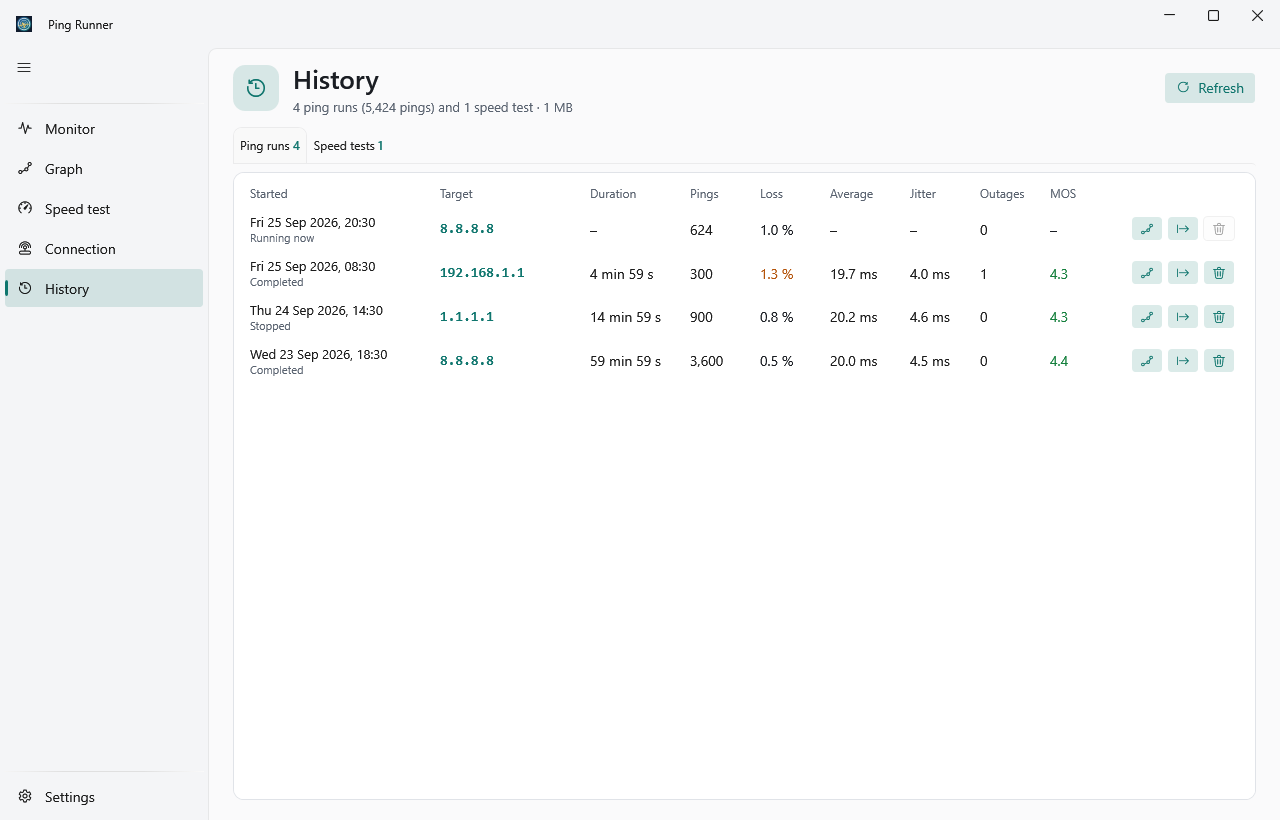
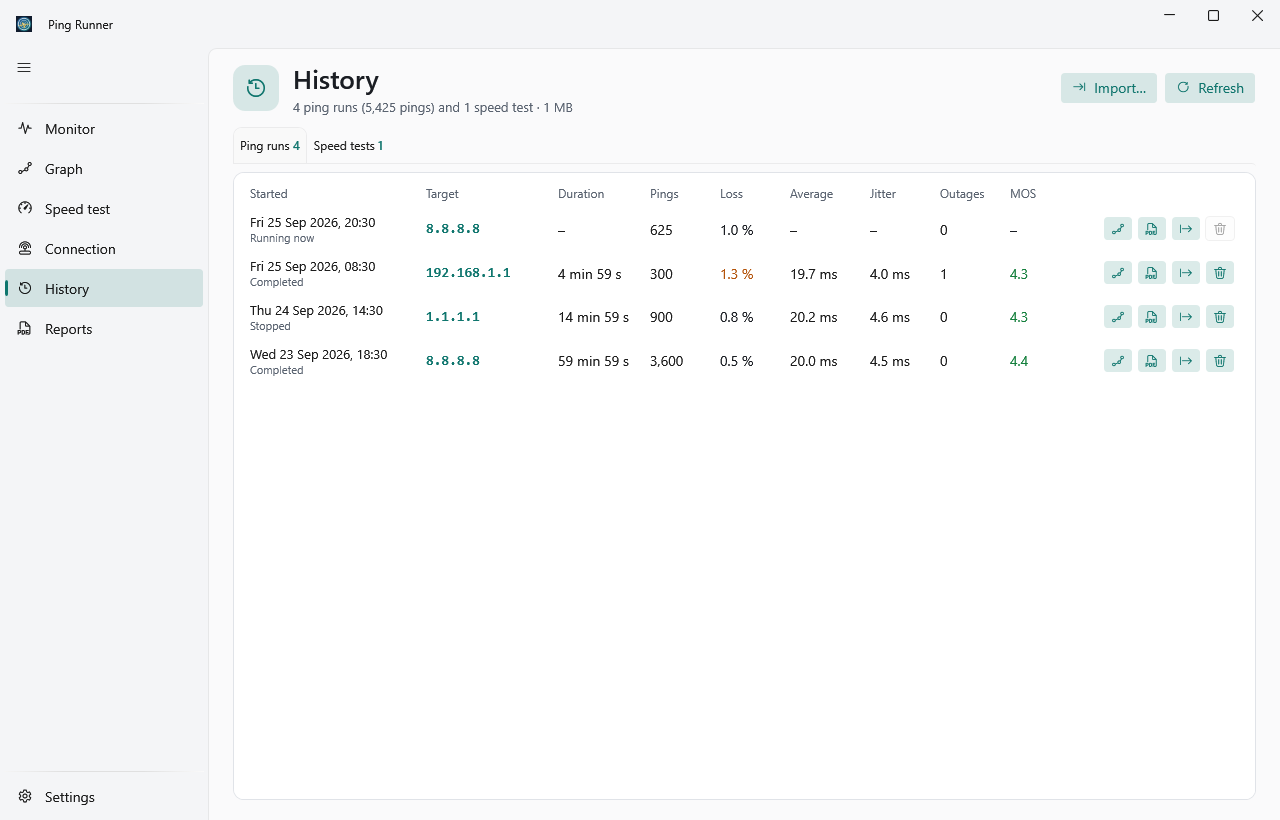
docs: describe reports and imports, and ship third-party notices
README, ARCHITECTURE, CONTEXT and SECURITY cover the Reports page, the
import formats and their limits, migration 0002 and the new seams.
ADR 0004 records the choice of PDFsharp and ClosedXML. The libraries'
licenses are listed in THIRD-PARTY-NOTICES.md, published beside the
app so the installer carries it.

diff --git a/ARCHITECTURE.md b/ARCHITECTURE.md
@@ -22,8 +22,11 @@ call goes through an interface that Infrastructure implements and tests replace.
 | --- | --- | --- |
 | `Pinging` | `PingRunSettings` (validated form), `PingLoop` (fixed cadence on a `TimeProvider`), `PingAttempt` | `IPingSender` |
 | `Statistics` | `PingStatistics`, `LatencyDistribution`, `Outage`, `CallQuality` | none, pure |
-| `Sessions` | `PingSession` (the live, bounded buffer), `PingAttemptCsv` (the file format) | none |
-| `History` | `RunRecorder` (saves each run as it goes), `RunRecord`, `RunSummary`, `SpeedTestRecord` | `IPingRunHistory`, `ISpeedTestHistory`, `IHistoryMaintenance` |
+| `Sessions` | `PingSession` (the live, bounded buffer), `PingAttemptCsv` (writes the file format) | none |
+| `Importing` | `PingRowReader` (columns by header, values as people write them), `PingCsvReader`, `PingFileImporter` (reader by extension), `PingImport` | `IPingFileReader` |
+| `Reports` | `ReportBuilder` (statistics, clock-aligned slices, findings, method), `ConnectionReport`, `ReportText` | `IReportWriter` |
+| `Formatting` | `Units`: how every measurement is written, shared by the app and reports | none |
+| `History` | `RunRecorder` (saves each run as it goes), `RunRecord` (recorded or imported), `RunSummary`, `SpeedTestRecord` | `IPingRunHistory`, `ISpeedTestHistory`, `IHistoryMaintenance` |
 | `Throughput` | `ThroughputMeter`, `ThroughputTest` (parallel streams, sampling) | `IThroughputEndpoint` |
 | `SpeedTest` | `SpeedTestRunner` (idle, download, upload, with loaded pings), `Bufferbloat` | uses both seams above |
 | `Graphing` | `GraphRange`, `GraphZoom` (zoom and pan maths), `LatencyDownsampler` | none |
@@ -34,7 +37,10 @@ call goes through an interface that Infrastructure implements and tests replace.
 `PingRunner.Infrastructure` (`net10.0`) has one adapter per seam: `IcmpPingSender`,
 `CloudflareSpeedEndpoint`, `SystemConnectionInfoSource`, `PublicIpService`, `JsonSettingsStore`,
 `GitHubReleaseSource`, the SQLite history (`SqliteHistoryDatabase`, `SqlitePingRunHistory`,
-`SqliteSpeedTestHistory`, `SqliteMigrator`), and `AppDataPaths` for where files go.
+`SqliteSpeedTestHistory`, `SqliteMigrator`), `ExcelPingReader` (ClosedXML), the report writers
+`PdfReportWriter` (PDFsharp and MigraDoc, with `WindowsFontResolver`) and `ExcelReportWriter`
+(ClosedXML), and `AppDataPaths` for where files go. The file readers and report writers only touch the
+stream they are handed, so `AppAdapters` sets the real ones by default and tests use them too.
 
 `PingRunner.App` (`net10.0-windows`, WPF UI 4.3, CommunityToolkit.Mvvm) holds the views, view models,
 charts and theming. Its composition root is `Composition/AppGraph`, built from an `AppAdapters` set:
@@ -70,6 +76,19 @@ A speed test runs `SpeedTestRunner`: up to ten idle pings to 1.1.1.1 (it gives u
 ones), then download and upload through `ThroughputTest`. Each direction starts its streams on the thread
 pool, samples the shared byte counter every 200 ms, reports progress to the page, and keeps pinging
 underneath for loaded latency.
+
+An import reads a file through `PingFileImporter`, which picks `PingCsvReader` or `ExcelPingReader` by
+extension. Both find columns by header through `PingRowReader`, so a column order or a spreadsheet's
+re-save does not matter, and both leave unreadable rows out with their line numbers. The Graph shows an
+import directly; the History stores it with `IPingRunHistory.ImportRunAsync`, one run per target.
+
+A report starts on the Reports page. `ReportsViewModel` gathers the pings through `ReportSources` (the
+session, the Graph's source, one stored run, or a target's stored runs cut to a date range), and
+`ReportBuilder` turns them into a `ConnectionReport`: the statistics, at most 48 clock-aligned slices,
+the speed tests inside the period, findings and method notes, all in the offset the pings were measured
+in. The preview shows its figures and findings. Saving adds the connection snapshot and, only if ticked,
+the public IP, draws the charts with `Reports/ReportChartRenderer` (off screen, light palette, the
+app's accent, twice the layout size) and hands the report to the chosen `IReportWriter`.
 
 ## Outside services
 
@@ -112,9 +131,14 @@ stored as Unix milliseconds plus the local offset in minutes, so records read ba
 - **Retention**: nothing is deleted automatically. Runs and speed tests go when the user deletes them
   or clears the history.
 
-The session CSV (`Timestamp,TargetHost,IsSuccess,RoundtripTimeMilliseconds,Details`) is the backup
-and exchange format, unchanged from 1.x. Import checks every row, caps line length and row count, and
-names the first bad line instead of loading half a file.
+`ping_runs.source` (`recorded` or `imported`) and `source_name` came with migration `0002`; runs from
+before it read as recorded. CI tests `0002` from `0001` with representative rows
+(`tests/PingRunner.Infrastructure.Tests/History/Fixtures`), and so does `SqliteMigratorTests`.
+
+The session CSV (`Timestamp,TargetHost,IsSuccess,RoundtripTimeMilliseconds,Details`) is the exchange
+format, unchanged from 1.x. Import is looser than export: it takes the columns by name and in any order,
+caps line length, row count and workbook size, and leaves bad rows out with their line numbers. The
+Excel report's Pings sheet uses the same column names, so a report imports back.
 
 ## Theming
 
@@ -156,6 +180,7 @@ window off screen, visits every page in both themes and fails on any binding err
 - [0001: WPF UI instead of dotnetlib](docs/adr/0001-wpf-ui-instead-of-dotnetlib.md)
 - [0002: Cloudflare for the speed test](docs/adr/0002-cloudflare-for-the-speed-test.md)
 - [0003: SQLite for the history](docs/adr/0003-sqlite-for-the-history.md)
+- [0004: PDFsharp and ClosedXML for reports](docs/adr/0004-pdfsharp-and-closedxml-for-reports.md)
 
 ## Known constraints
 
@@ -165,3 +190,7 @@ window off screen, visits every page in both themes and fails on any binding err
 - Upload bytes are counted as they are written to the socket, a little ahead of what the server has
   received. Leaving the first second out of the average absorbs most of that.
 - The speed test measures the path to Cloudflare's nearest data centre, not to any other server.
+- A report's connection details and public IP are read when the report is made, which may be long
+  after the pings; the report says so.
+- Excel stores times without an offset, so the workbook writes clock times in the measured offset and
+  puts the offset in its own column or header.

diff --git a/README.md b/README.md
@@ -8,11 +8,11 @@ runs a speed test that also measures how much a full line slows everything else 
 
 ## Status
 
-Version 2.1.0 is the current release. It adds the History page, which keeps every ping run and speed
-test on this computer, and a shortcut to your router's admin page. Version 2.0.0 replaced the 1.x window
-and pop-up graph with one window and its pages. Local builds report themselves as `2.1.0-dev`. Update
-from Settings: "Check for updates" opens the release page, and the new installer replaces the old
-version in place, keeping settings and history.
+Version 2.2.0 is in development: reports as PDF and Excel, and imports from spreadsheets and other
+tools into the History. Version 2.1.0 is the current release; it added the History page and a shortcut
+to your router's admin page. Local builds report themselves as `2.2.0-dev`. Update from Settings:
+"Check for updates" opens the release page, and the new installer replaces the old version in place,
+keeping settings and history.
 
 ## What it shows
 
@@ -33,10 +33,10 @@ figures update a few times a second:
 The page also draws the last 120 pings and lists the newest 200. The copy button puts a text summary of
 the session on the clipboard, ready for a support ticket.
 
-**Graph.** The whole session, or a CSV you import, narrowed to the last N pings or a time span. Scroll
-to zoom at the pointer, drag to pan, double-click to reset, and hover for the exact ping. The figures
-above the chart describe only what is on screen. Export the visible part or everything as CSV, or the
-chart and its figures as PNG.
+**Graph.** The whole session, a stored run, or a file you import, narrowed to the last N pings or a
+time span. Scroll to zoom at the pointer, drag to pan, double-click to reset, and hover for the exact
+ping. The figures above the chart describe only what is on screen. Export the visible part or
+everything as CSV, or the chart and its figures as PNG, or make a report of what it shows.
 
 ![The Graph page in dark mode, showing the last 300 pings with one lost ping marked](docs/assets/graph-dark.png)
 
@@ -59,9 +59,30 @@ up when the page opens and stays hidden until you show it.
 **History.** Every ping run, with every ping in it, and every speed test, kept until you delete them.
 A run is saved while it goes, every 50 pings or 5 seconds, so a crash loses at most a few seconds; a
 run left open that way is marked "Interrupted" the next time the app starts. Open a run in the Graph,
-export it as CSV, or delete it.
+make a report of it, export it as CSV, or delete it. Import adds pings from a file as stored runs, one
+per target, marked with the file's name.
 
 ![The History page listing four stored runs, one still running](docs/assets/history-light.png)
+
+**Reports.** Evidence of how the connection behaved, for a support ticket or anyone who was not there.
+Report on the live session, what the Graph shows, one stored run, or everything stored for a target
+between two dates; add a title and notes; choose whether speed tests, connection details, the public IP
+(off by default) and every ping go in. The page previews the figures and findings, then saves:
+
+- a **PDF** to hand over: key figures, findings in plain words, charts of latency over time (lost pings
+  and outages marked), loss per slice of time, how replies were spread and the speed tests, a table
+  over time, every outage, the speed tests, the connection and how it was all measured;
+- an **Excel workbook** to work with: the same summary and charts, then a sheet per table with real
+  numbers and dates, and a Pings sheet that imports straight back into Ping Runner.
+
+![The Reports page previewing a report on the live session](docs/assets/reports-light.png)
+
+![The first page of a PDF report: key figures, findings and the latency chart](docs/assets/report-pdf.png)
+
+**Import.** The Graph and the History read Ping Runner's CSV, the same file after a spreadsheet saved
+it again (semicolons or tabs, local dates, decimal commas), other tools' ping logs with a time column
+and a latency or result column, and Excel workbooks. Rows that cannot be read are left out and listed
+by line; a file with no pings in it is refused with the reason.
 
 **Settings.** Light, dark or Windows theme, four accent colors, how many pings the live session keeps
 (10,000 to 500,000), speed-test length and streams, backup, restore and clearing of the history, and an
@@ -107,8 +128,9 @@ check that CI runs, and how to regenerate the screenshots above.
 ## Architecture
 
 Four projects with dependencies pointing inward: `PingRunner.Core` (statistics, the ping loop, the
-speed test, formats; no I/O), `PingRunner.Infrastructure` (ICMP, HTTP, the adapter list, the settings
-file), `PingRunner.App` (WPF UI and the composition root) and `PingRunner.Cli`. See
+speed test, reports, file formats; no I/O), `PingRunner.Infrastructure` (ICMP, HTTP, the adapter list,
+the settings file, the history, PDF and Excel), `PingRunner.App` (WPF UI and the composition root) and
+`PingRunner.Cli`. See
 [ARCHITECTURE.md](ARCHITECTURE.md) for the seams, the data flow and the outside services the app talks
 to, and [CONTEXT.md](CONTEXT.md) for what each measurement means.
 
@@ -127,8 +149,8 @@ Uninstalling leaves the folder; deleting it resets the app.
 
 Back up the history from Settings: it writes a complete copy to a file you choose. Restore checks that
 the file is a readable Ping Runner history before it replaces anything and keeps the previous one as
-`history.before-restore.db`. A single run can also go out as CSV, in the format 1.x wrote, and CSV files
-open in the Graph.
+`history.before-restore.db`. A single run can also go out as CSV, in the format 1.x wrote, or as a
+report; CSV files and Excel workbooks open in the Graph or import into the History.
 
 ## Delivery
 
@@ -148,4 +170,5 @@ published release and offers to open its page; it never downloads or runs anythi
 ## License
 
 [PolyForm Noncommercial 1.0.0](LICENSE.md). Free for personal and other noncommercial use; selling it
-or using it commercially needs permission.
+or using it commercially needs permission. The libraries it ships with are listed in
+[THIRD-PARTY-NOTICES.md](THIRD-PARTY-NOTICES.md), which the installer puts beside the app.

diff --git a/SECURITY.md b/SECURITY.md
@@ -12,9 +12,14 @@ switched on for this repository yet.
 
 ## Trust boundaries
 
-- **Imported CSV files.** Treated as untrusted. Every row is parsed and checked (timestamp, host
-  length, boolean, non-negative round-trip time), lines over 4,096 characters and files over 2,000,000
-  rows are refused, and a bad row fails the whole import with its line number.
+- **Imported files.** CSV files and Excel workbooks are untrusted. Every row is parsed and checked
+  (time, host length, result, a round-trip time from 0 to 10 minutes); a row that fails is left out and
+  listed with its line number, never half-read. Lines over 4,096 characters are skipped, files over
+  2,000,000 pings and workbooks over 200 MB are refused, and a file with no readable pings is refused
+  with the reason. Workbook formulas are read by their saved value and never calculated, and macros in
+  `.xlsm` files are never run.
+- **Reports.** A report holds what you chose to put in it. The public IP address stays out unless you
+  tick it; adapter MAC addresses are never included. Reports are written only to the file you pick.
 - **History backups.** A file chosen for restore is untrusted: a copy of it must have Ping Runner's
   tables, pass SQLite's integrity and foreign-key checks before and after migrating, and list no
   migration this build does not know. Only then does it replace the history; the old one is kept.
@@ -25,7 +30,8 @@ switched on for this repository yet.
   parsed.
 - **Opening links.** The app hands the browser only three kinds of address, and only when you click:
   the release page from the update check, the repository, and `http://<gateway>/`, which it builds from
-  the gateway's parsed IP address and nothing else.
+  the gateway's parsed IP address and nothing else. It also opens a report you just saved, or its
+  folder, when you press Open or Show in folder.
 - **Updates.** The app never downloads or runs an update. The update check reads the latest published
   release and opens its page in the browser when you ask it to.
 - **Installer.** Per-user, no administrator rights. Releases publish a SHA-256 checksum beside the

diff --git a/THIRD-PARTY-NOTICES.md b/THIRD-PARTY-NOTICES.md
@@ -1,0 +1,24 @@
+# Third-party notices
+
+Ping Runner is licensed under [PolyForm Noncommercial 1.0.0](LICENSE.md). The installed app also
+contains the libraries below, each under its own license. The license texts are at the linked
+projects; the .NET runtime that the installer brings is covered by its own notices from Microsoft.
+
+| Library | Version | License | Copyright | Project |
+| --- | --- | --- | --- | --- |
+| WPF UI | 4.3.0 | MIT | Leszek Pomianowski and WPF UI Contributors | https://github.com/lepoco/wpfui |
+| CommunityToolkit.Mvvm | 8.4.2 | MIT | .NET Foundation and Contributors | https://github.com/CommunityToolkit/dotnet |
+| Microsoft.Data.Sqlite | 10.0.12 | MIT | Microsoft Corporation | https://github.com/dotnet/efcore |
+| SQLitePCLRaw (bundle_e_sqlite3) | 2.1.12 | Apache-2.0 | SourceGear, LLC | https://github.com/ericsink/SQLitePCL.raw |
+| SQLite | bundled with SQLitePCLRaw | Public domain | | https://sqlite.org |
+| PDFsharp and MigraDoc | 6.2.4 | MIT | empira Software GmbH | https://github.com/empira/PDFsharp |
+| ClosedXML | 0.105.1 | MIT | ClosedXML contributors | https://github.com/ClosedXML/ClosedXML |
+| ClosedXML.Parser | 2.0.0 | MIT | ClosedXML contributors | https://github.com/ClosedXML/ClosedXML.Parser |
+| DocumentFormat.OpenXml | 3.1.1 | MIT | Microsoft Corporation | https://github.com/dotnet/Open-XML-SDK |
+| ExcelNumberFormat | 1.1.0 | MIT | ExcelNumberFormat contributors | https://github.com/andersnm/ExcelNumberFormat |
+| RBush | 4.0.0 | MIT | Turning Code, LLC and others | https://github.com/viceroypenguin/RBush |
+| SixLabors.Fonts | 1.0.0 | Apache-2.0 | Six Labors | https://github.com/SixLabors/Fonts |
+| Microsoft.Extensions.Logging.Abstractions, DependencyInjection.Abstractions | 8.0 | MIT | Microsoft Corporation | https://github.com/dotnet/runtime |
+
+Reports embed the Segoe UI font from the Windows fonts folder of the computer that makes them, under
+the terms that come with Windows.

diff --git a/CONTRIBUTING.md b/CONTRIBUTING.md
@@ -17,6 +17,8 @@ pwsh ./tools/test-powershell-syntax.ps1
 To change the history schema, add the next migration file (`python tools/migrations.py new
 src/PingRunner.Infrastructure/History/Migrations add_something`) and test it from its predecessor with
 representative rows: `python tools/migrations.py test <folder> --migration NNNN --fixture <rows.sql>`.
+Keep the fixture in `tests/PingRunner.Infrastructure.Tests/History/Fixtures`, add the command to CI, and
+add a `SqliteMigratorTests` case that migrates the same rows.
 
 Warnings fail the build, and code style is checked during the build. The tests need the .NET 10 SDK
 and nothing else. `tools/validate_repository.py`, `tools/migrations.py` and
@@ -33,7 +35,8 @@ $env:PINGRUNNER_SCREENSHOTS = "$PWD\artifacts\screenshots"
 dotnet test --project tests\PingRunner.App.Tests -c Release
 ```
 
-Copy the ones you need into `docs/assets/` and describe them in the image alt text.
+Copy the ones you need into `docs/assets/` and describe them in the image alt text. The same variable
+makes `ReportChartRendererTests` write the report charts and a sample PDF and Excel report.
 
 ## Change shape
 

diff --git a/CONTEXT.md b/CONTEXT.md
@@ -22,6 +22,25 @@ _Avoid_: log
 Every run and speed test stored on this computer, kept until deleted. A stored run is a **run record**.
 _Avoid_: log, archive
 
+**Imported run**:
+A stored run read from a file instead of recorded by pinging. It keeps the file's name; its interval
+is the usual gap between its attempts.
+_Avoid_: uploaded run, external run
+
+**Report**:
+A document about one set of attempts for someone who was not there: figures, findings, charts, tables
+and how it was measured, as PDF or Excel.
+_Avoid_: export (an export is the raw attempts), summary (the clipboard text)
+
+**Finding**:
+One sentence of a report that states what the attempts show, with the numbers, and judges no further.
+_Avoid_: diagnosis, verdict
+
+**Slice**:
+One clock-aligned stretch of a report's period (a minute to a day, whatever keeps a report to 48 of
+them) with its own figures. `ReportBucket` in code.
+_Avoid_: interval (that is the gap between pings), window
+
 **Interrupted run**:
 A stored run the app never finished because it or the computer went down; closed at the next start
 with the attempts that had been saved.

diff --git a/docs/adr/0004-pdfsharp-and-closedxml-for-reports.md b/docs/adr/0004-pdfsharp-and-closedxml-for-reports.md
@@ -1,0 +1,13 @@
+# PDFsharp and ClosedXML for reports
+
+Reports go to people who were not at the computer: a provider's support desk, a landlord, a colleague.
+They need a PDF that looks the same everywhere and a workbook with real numbers. Ping Runner writes
+both itself instead of printing a window, so a report never depends on the screen, the theme or a
+printer driver. PDFsharp with MigraDoc (MIT) lays out the PDF with tables, page breaks and embedded
+fonts; ClosedXML (MIT) writes and reads `.xlsx` without Excel installed. Both are pure .NET and add
+about 12 MB to the installed app. QuestPDF, EPPlus and Syncfusion were ruled out because their terms
+depend on who uses them and how much they earn, conditions that would pass on to everyone who gets Ping
+Runner; printing a WPF `FlowDocument` to XPS and converting it gave too little control over the page.
+PDFsharp reads fonts through a resolver; Ping Runner gives it Segoe UI from the Windows fonts folder,
+with Arial as the fallback. Charts are drawn by the app and embedded as images,
+because neither library draws charts the way the app does.
